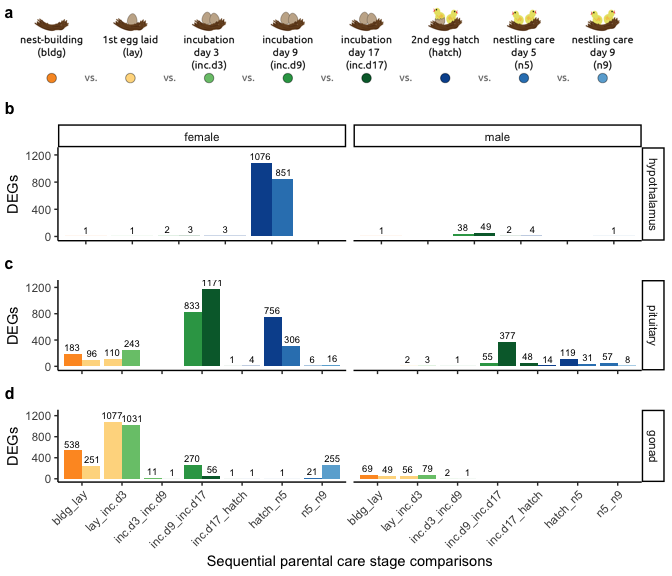
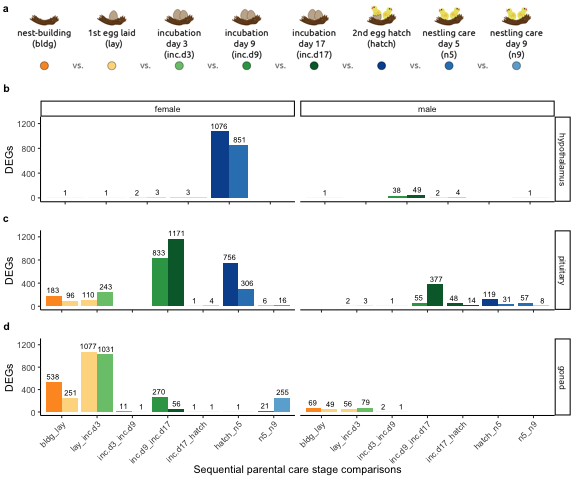
smaller font

diff --git a/analysis/figure-2.md b/analysis/figure-2.md
@@ -54,7 +54,7 @@ DEGs
       scale_color_manual(values = allcolors) +
       geom_text(stat='count', aes(label=..count..), vjust =-0.5, 
                 position = position_dodge(width = 1),
-                size = 2.5, color = "black")  +
+                size = 2, color = "black")  +
       ylim(lowlim, higherlim)
       return(p)
     }
@@ -112,13 +112,13 @@ DEGS
     # gon
     p3 <- makebargraph("gonad","DEGs", 0, 1250) +  theme(strip.text.x = element_blank())
 
-    bcd <- plot_grid(p1,p2,p3, nrow = 3, rel_heights = c(1.2,1,1.5), labels = c("b", "c", "d"), label_size = 12)
+    bcd <- plot_grid(p1,p2,p3, nrow = 3, rel_heights = c(1.2,1,1.5), labels = c("b", "c", "d"), label_size = 8)
 
 
     expdesign <- png::readPNG("../figures/images/DoveParentsRNAseq_DEGS.png")
     expdesign <- ggdraw() +  draw_image(expdesign, scale = 1)
 
-    plot_grid(expdesign, bcd, labels = c("a", " "), label_size = 12, nrow = 2, rel_heights = c(0.2,1))
+    plot_grid(expdesign, bcd, labels = c("a", " "), label_size = 8, nrow = 2, rel_heights = c(0.2,1))
 
 ![](../figures/fig2-1.png)
 
@@ -135,7 +135,7 @@ DEGS
         labs( y = whichtissue) +
       geom_text(stat='count', aes(label=..count..), vjust =-0.5, 
                position = position_dodge(width = 1),
-               size = 2.5, color = "black")  + 
+               size = 2, color = "black")  + 
           ylim(lowlim, higherlim) +
       scale_fill_manual(values = allcolors, name = "higher in")   + 
         theme(axis.text.x = element_blank()) 
@@ -216,13 +216,13 @@ DEGS
 
 
     hypothesisbars <-  plot_grid(b112131, b122232, c112131, c122232, nrow = 1, rel_widths = c(1.3, 1, 1.1, 1),
-              labels = c("b", " ", "c", " "), label_size = 12)
+              labels = c("b", " ", "c", " "), label_size = 8)
 
     expdesign2 <- png::readPNG("../figures/images/DoveParentsRNAseq_hypothesis.png")
     expdesign2 <- ggdraw() +  draw_image(expdesign2, scale = 1)
 
 
-    plot_grid(expdesign2, hypothesisbars, rel_heights = c(0.5,1), nrow = 2, labels = c("a", " "), label_size = 12)
+    plot_grid(expdesign2, hypothesisbars, rel_heights = c(0.5,1), nrow = 2, labels = c("a", " "), label_size = 8)
 
 ![](../figures/fig2b-1.png)
 

diff --git a/analysis/figure-1.md b/analysis/figure-1.md
@@ -60,12 +60,12 @@ make figure
     c <- plottsneelipse(ftsne, ftsne$treatment, allcolors ) + labs(y = " ", subtitle = "treatment * tissue\nfemales")
     d <- plottsneelipse(mtsne, mtsne$treatment, allcolors ) + labs(y = " ", subtitle = "treatment * tissue\nmales") 
 
-    abcd <- plot_grid(a,b,c,d, nrow = 1, labels = c("b", "c", "d", "e"), label_size = 12 )
+    abcd <- plot_grid(a,b,c,d, nrow = 1, labels = c("b", "c", "d", "e"), label_size = 8 )
 
     expdesign <- png::readPNG("../figures/images/fig1a_fig1a.png")
     expdesign <- ggdraw() +  draw_image(expdesign, scale = 1)
 
-    abcde <- plot_grid(expdesign, abcd, nrow = 2, labels = c("a", "b"), label_size = 12, rel_heights = c(0.5,1))
+    abcde <- plot_grid(expdesign, abcd, nrow = 2, labels = c("a", "b"), label_size = 8, rel_heights = c(0.5,1))
 
 
 
@@ -85,7 +85,9 @@ make figure
     i <- plottsneelipsev2(pittsne, pittsne$treatment, allcolors ) + labs(subtitle = "pituitary", y = NULL) + facet_wrap(~sex) 
     j <- plottsneelipsev2(gontsne, gontsne$treatment, allcolors ) + labs(subtitle = "gonads", y = NULL)  + facet_wrap(~sex)
 
-    hij <- plot_grid(h,i,j, nrow = 1, labels = c("h", "i", "j"), label_size = 12)
+    hij <- plot_grid(h,i,j, nrow = 1, labels = c("h", "i", "j"), label_size = 8)
+
+    ## Warning in MASS::cov.trob(data[, vars]): Probable convergence failure
 
     fig1 <- plot_grid(abcde, hij, nrow = 2, rel_heights = c(0.6,0.4))
     fig1
